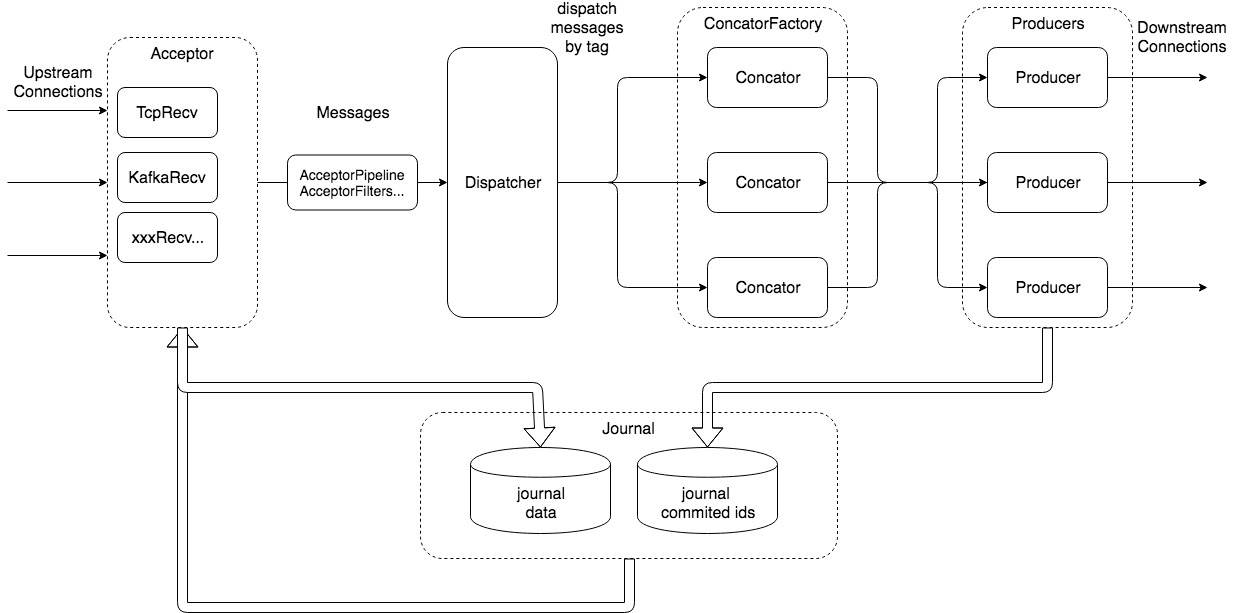
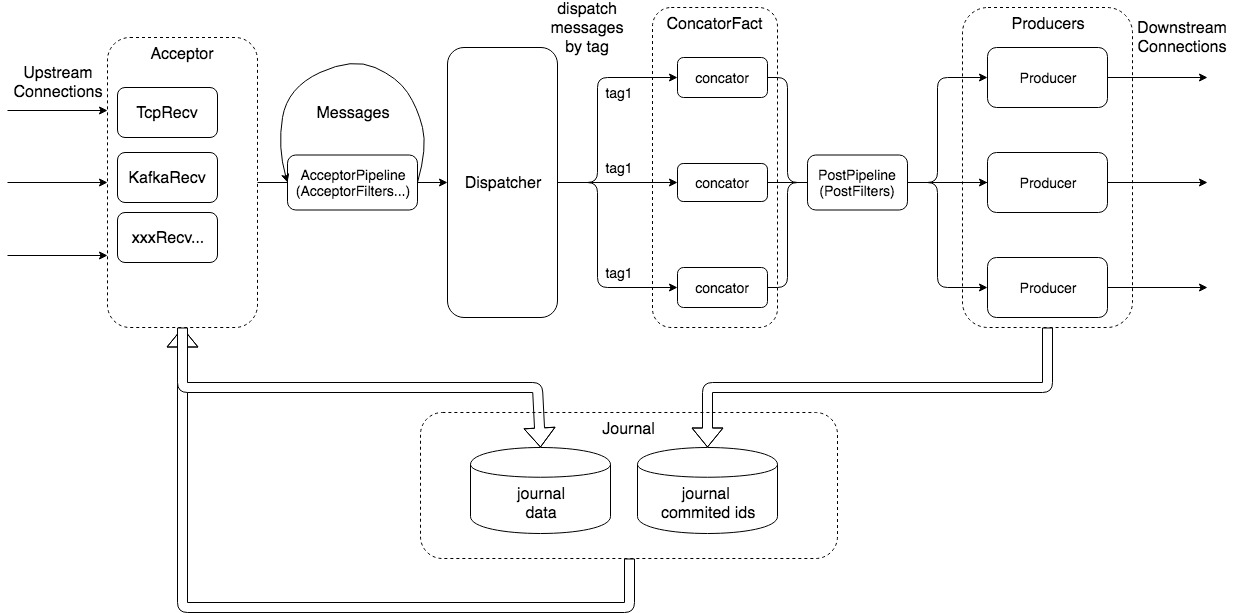
feat(paas-157): add postPipeline

diff --git a/controllor.go b/controllor.go
@@ -9,6 +9,7 @@ import (
 
 	"github.com/Laisky/go-concator/acceptorFilters"
 	"github.com/Laisky/go-concator/libs"
+	"github.com/Laisky/go-concator/postFilters"
 	"github.com/Laisky/go-concator/recvs"
 	utils "github.com/Laisky/go-utils"
 	"github.com/Laisky/go-utils/kafka"
@@ -103,7 +104,7 @@ func (c *Controllor) initAcceptorPipeline(env string) *acceptorFilters.AcceptorP
 			Env:   env,
 			Rules: acceptorFilters.ParseSpringRules(utils.Settings.Get("settings.acceptor_filters.spring.rules").([]interface{})),
 		}),
-		// set the DefaultFilter as the last filter
+		// set the DefaultFilter as last filter
 		acceptorFilters.NewDefaultFilter(acceptorFilters.NewDefaultFilterCfg()),
 	)
 }
@@ -115,6 +116,16 @@ func (c *Controllor) initDispatcher(waitDispatchChan chan *libs.FluentMsg, conca
 	dispatcher.Run()
 
 	return dispatcher
+}
+
+func (c *Controllor) initPostPipeline(env string) *postFilters.PostPipeline {
+	return postFilters.NewPostPipeline(
+		c.msgPool,
+		postFilters.NewDefaultFilter(&postFilters.DefaultFilterCfg{
+			MsgKey: utils.Settings.GetString("settings.post_filters.default.msg_key"),
+			MaxLen: utils.Settings.GetInt("settings.post_filters.default.max_len"),
+		}),
+	)
 }
 
 func (c *Controllor) initProducer(waitProduceChan chan *libs.FluentMsg) *Producer {
@@ -151,7 +162,11 @@ func (c *Controllor) Run() {
 
 	concatorFact := NewConcatorFactory()
 	dispatcher := c.initDispatcher(waitDispatchChan, concatorFact)
-	waitProduceChan := dispatcher.GetOutChan()
+
+	waitPostPipelineChan := dispatcher.GetOutChan()
+	postPipeline := c.initPostPipeline(env)
+	waitProduceChan := postPipeline.Wrap(waitPostPipelineChan)
+
 	producer := c.initProducer(waitProduceChan)
 	waitCommitChan := journal.GetCommitChan()
 

diff --git a/postFilters/pipeline.go b/postFilters/pipeline.go
@@ -1,0 +1,50 @@
+package postFilters
+
+import (
+	"sync"
+
+	"github.com/Laisky/go-concator/libs"
+	"github.com/Laisky/go-utils"
+)
+
+type PostPipeline struct {
+	filters []PostFilterItf
+	msgPool *sync.Pool
+}
+
+func NewPostPipeline(msgPool *sync.Pool, filters ...PostFilterItf) *PostPipeline {
+	utils.Logger.Info("NewPostPipeline")
+	return &PostPipeline{
+		filters: filters,
+		msgPool: msgPool,
+	}
+}
+
+func (f *PostPipeline) Wrap(inChan chan *libs.FluentMsg) (outChan chan *libs.FluentMsg) {
+	outChan = make(chan *libs.FluentMsg, 1000)
+	var (
+		filter PostFilterItf
+		msg    *libs.FluentMsg
+	)
+
+	for _, filter = range f.filters {
+		filter.SetUpstream(inChan)
+		filter.SetMsgPool(f.msgPool)
+	}
+
+	go func() {
+	NEXT_MSG:
+		for origMsg := range inChan {
+			msg = origMsg
+			for _, filter = range f.filters {
+				if msg = filter.Filter(msg); msg == nil { // msg has been discarded
+					goto NEXT_MSG
+				}
+			}
+
+			outChan <- msg
+		}
+	}()
+
+	return outChan
+}

diff --git a/postFilters/default_f.go b/postFilters/default_f.go
@@ -1,0 +1,30 @@
+package postFilters
+
+import (
+	"github.com/Laisky/go-concator/libs"
+)
+
+type DefaultFilterCfg struct {
+	MsgKey string
+	MaxLen int
+}
+
+type DefaultFilter struct {
+	*BaseFilter
+	*DefaultFilterCfg
+}
+
+func NewDefaultFilter(cfg *DefaultFilterCfg) *DefaultFilter {
+	return &DefaultFilter{
+		BaseFilter:       &BaseFilter{},
+		DefaultFilterCfg: cfg,
+	}
+}
+
+func (f *DefaultFilter) Filter(msg *libs.FluentMsg) *libs.FluentMsg {
+	if len(msg.Message[f.MsgKey].([]byte)) > f.MaxLen {
+		msg.Message[f.MsgKey] = msg.Message[f.MsgKey].([]byte)[:f.MaxLen]
+	}
+
+	return msg
+}

diff --git a/postFilters/base.go b/postFilters/base.go
@@ -1,0 +1,26 @@
+package postFilters
+
+import (
+	"sync"
+
+	"github.com/Laisky/go-concator/libs"
+)
+
+type PostFilterItf interface {
+	Filter(*libs.FluentMsg) *libs.FluentMsg
+	SetUpstream(chan *libs.FluentMsg)
+	SetMsgPool(*sync.Pool)
+}
+
+type BaseFilter struct {
+	upstreamChan chan *libs.FluentMsg
+	msgPool      *sync.Pool
+}
+
+func (f *BaseFilter) SetUpstream(upChan chan *libs.FluentMsg) {
+	f.upstreamChan = upChan
+}
+
+func (f *BaseFilter) SetMsgPool(msgPool *sync.Pool) {
+	f.msgPool = msgPool
+}

diff --git a/README.md b/README.md
@@ -1,19 +1,63 @@
 # Go-Concator
 
-Replace fluentd concat
+Rewrite fluentd by Golang.
 
 
 ## Description
 
-Roles:
+Replace most of fluentd's functions except string parsing
+(since of this part is too cumbersome to rewrite
+ and can be easy to horizontal scaling).
 
-- Acceptor
-- AcceptorFilters
+
+## Roles
+
+- Acceptor (consists of Recvs)
+- AcceptorPipeline (consists of AcceptorFilters)
 - Journal
 - Dispatcher
+- DispatcherPipeline (consists of DispatcherFilters)
 - Concator
 - Producer
 
 
 ![architecture](docs/architecture.jpg)
+
+
+### Acceptor
+
+Contains multiply Recvs (such as KafkRecv & TcpRecv),
+can listening tcp port or fetch msg from kafka brokers.
+
+
+### AcceptorPipeline
+
+Contains multiply AcceptorFilters, be used for ignore or retag specific messages.
+All filters should return very fast to avoid blocking.
+
+
+### Journal
+
+TBD...
+
+
+### Dispatcher
+
+TBD...
+
+
+### DispatcherPipeline
+
+TBD...
+
+
+### Concator
+
+TBD...
+
+
+### Producer
+
+TBD...
+
 
